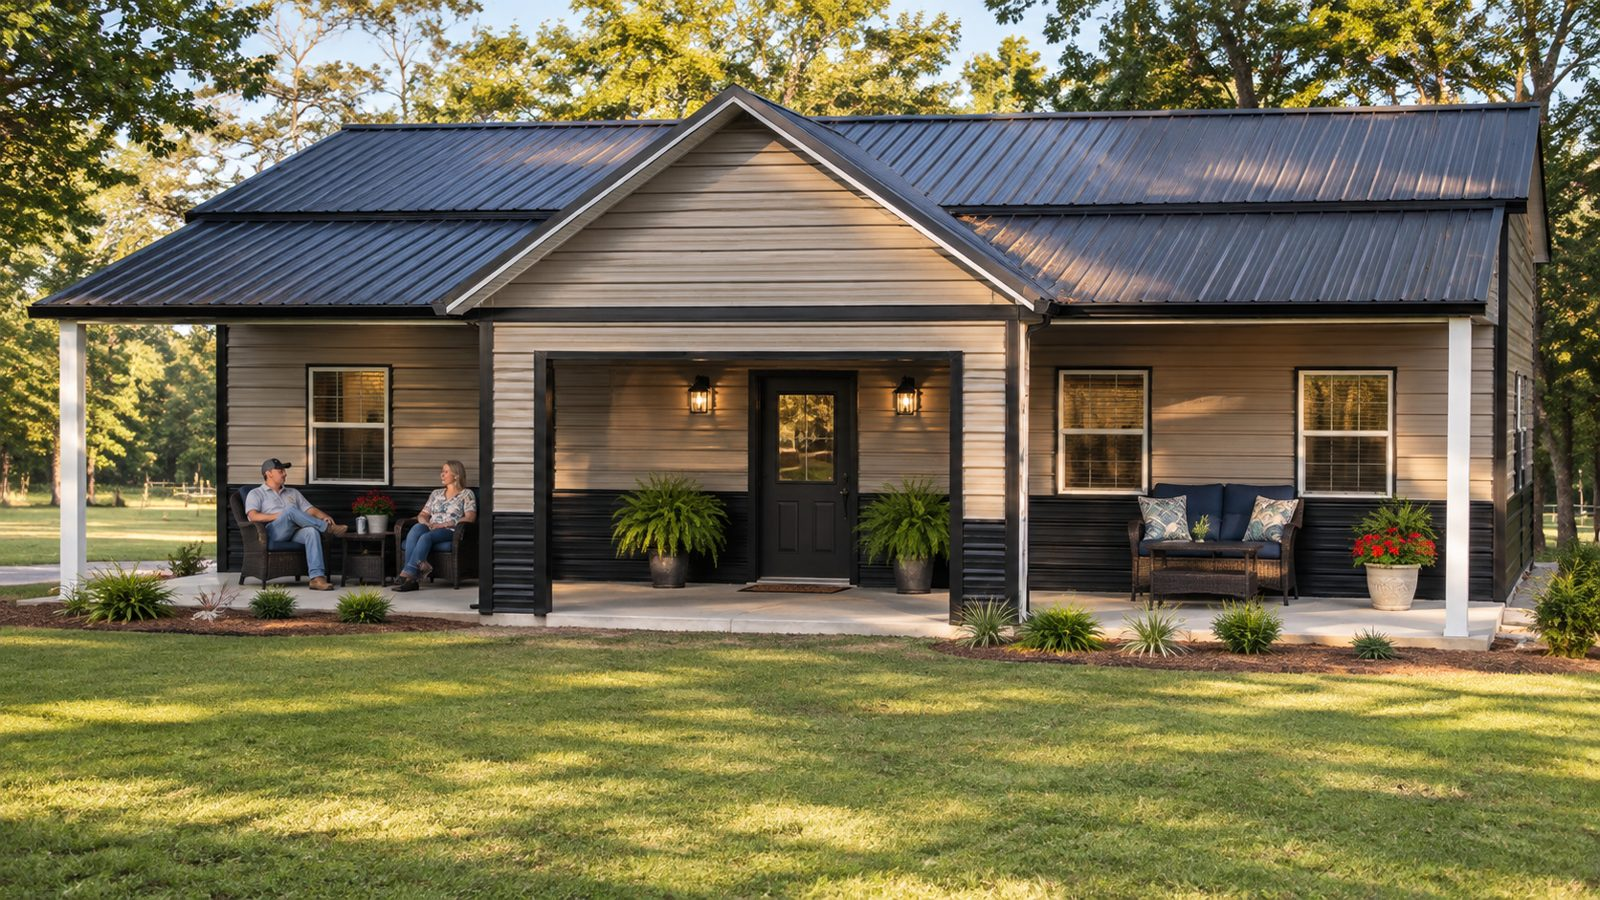
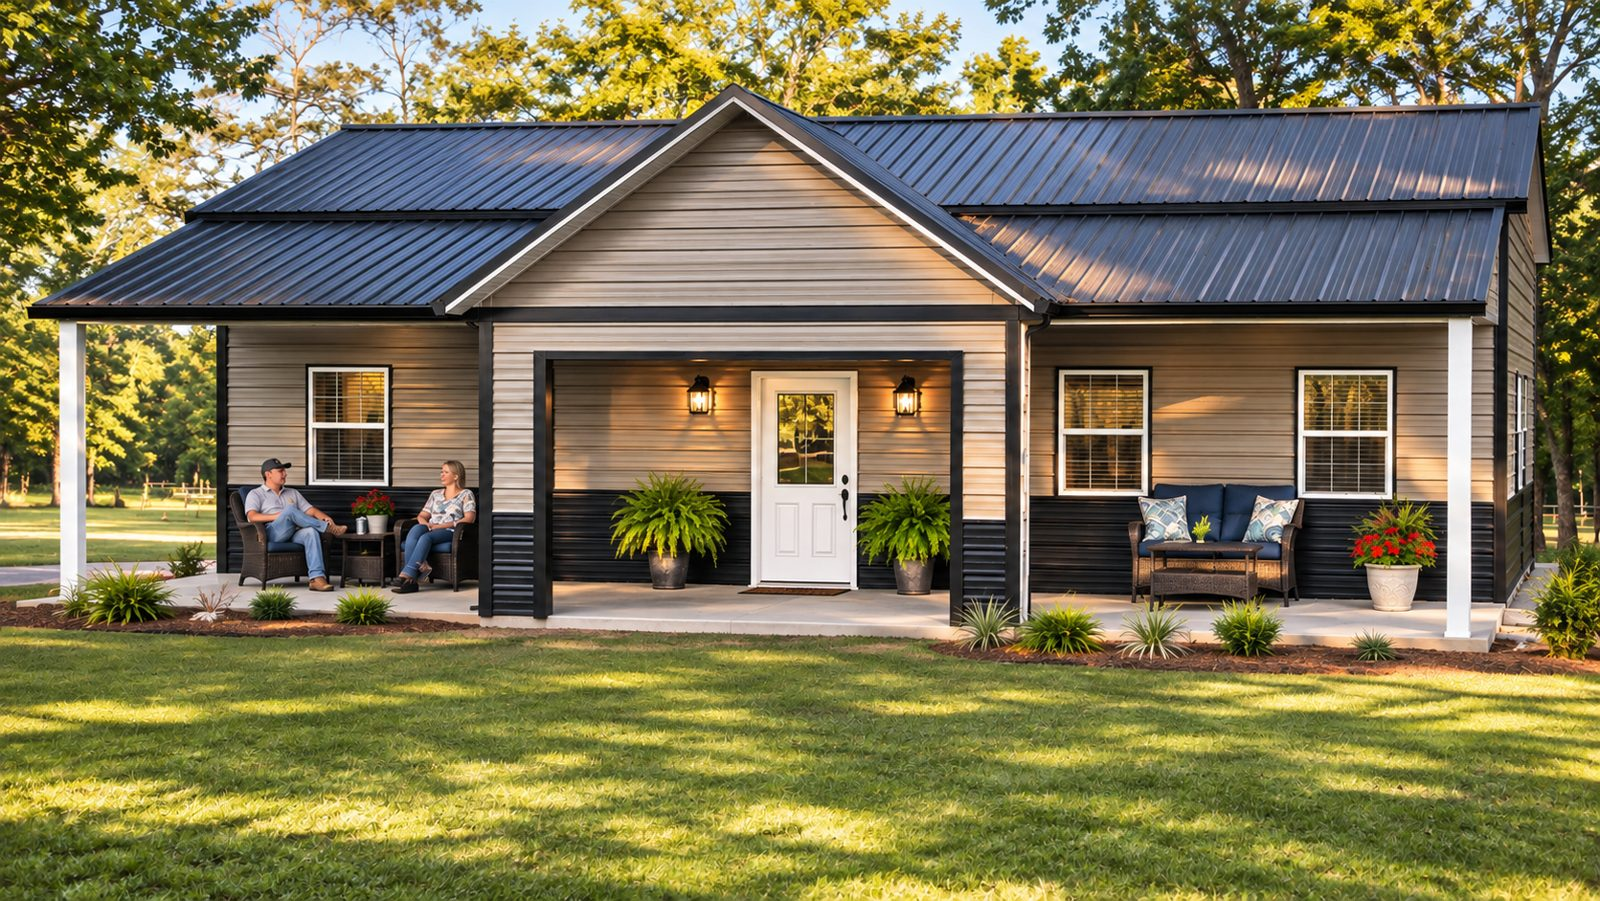
Barndo: white-door photo, quote link v=3
Claude-Session: https://claude.ai/code/session_015sSHPmYTEiMPovYr6ko9MB

diff --git a/index.html b/index.html
@@ -2337,7 +2337,7 @@ footer {
           </div>
           <div class="plan-ctas">
             <a href="#" class="plan-cta plan-cta-primary" data-form-trigger="quote">🔒 Lock My Price</a>
-            <a href="https://build.cat5steelbuildings.com/c/XJnBav8s8fzrE9?v=2" class="plan-cta plan-cta-secondary" target="_blank" rel="noopener">See It in 3D</a>
+            <a href="https://build.cat5steelbuildings.com/c/XJnBav8s8fzrE9?v=3" class="plan-cta plan-cta-secondary" target="_blank" rel="noopener">See It in 3D</a>
             <a href="#" class="plan-cta plan-cta-tertiary" data-form-trigger="ask">Ask Us</a>
           </div>
         </div>
